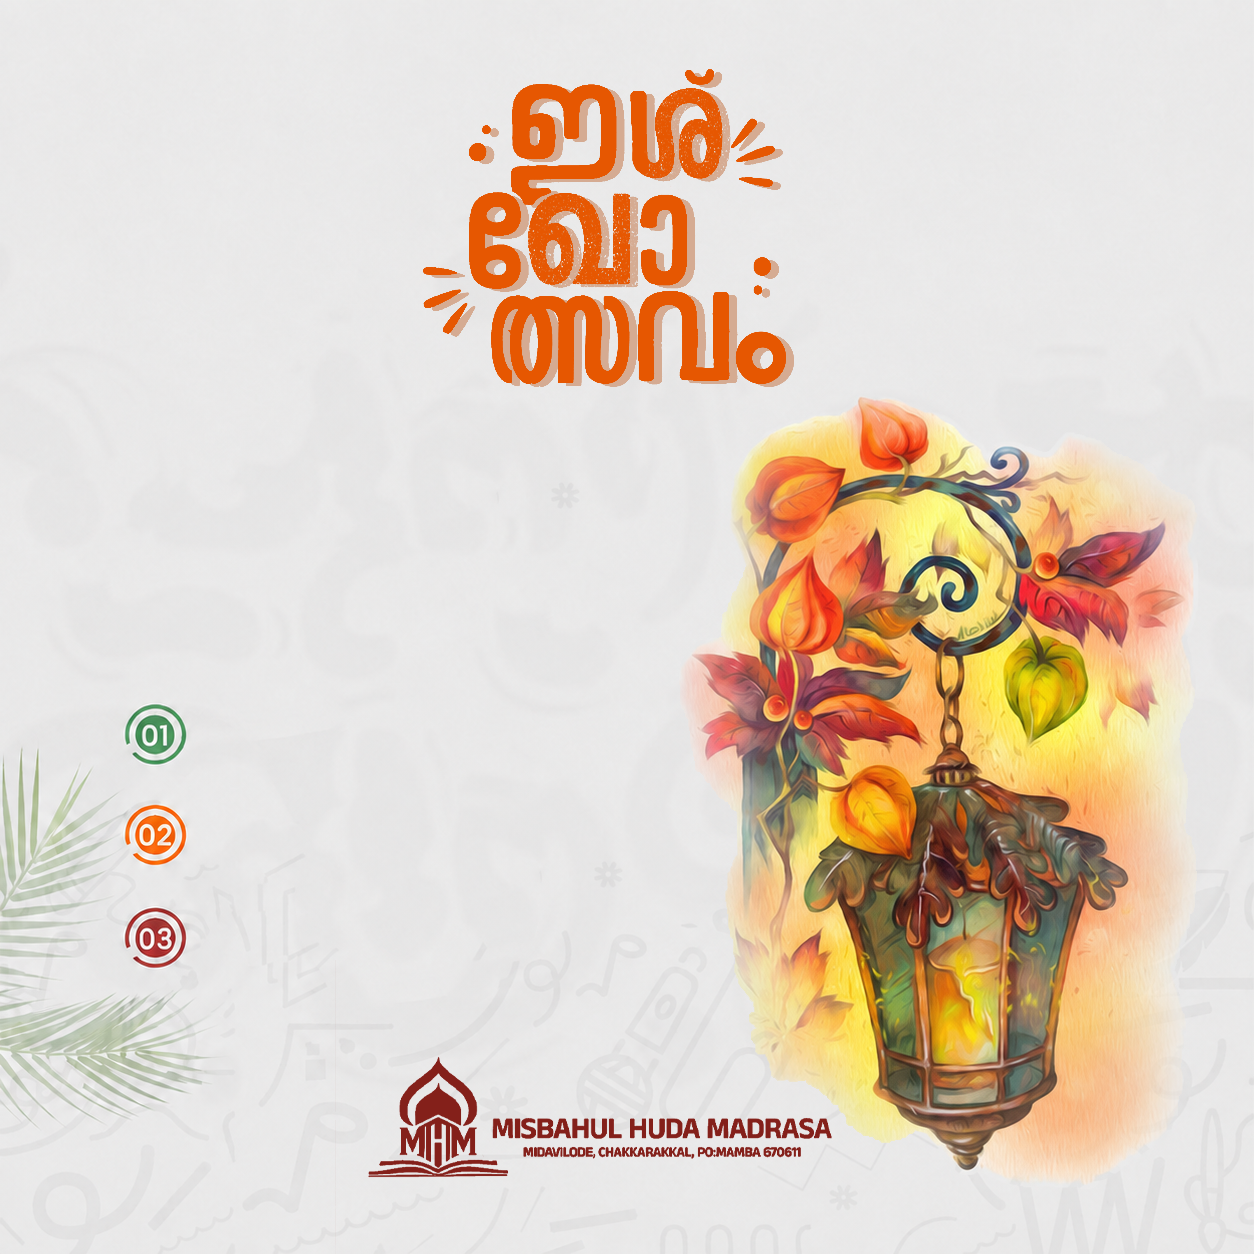
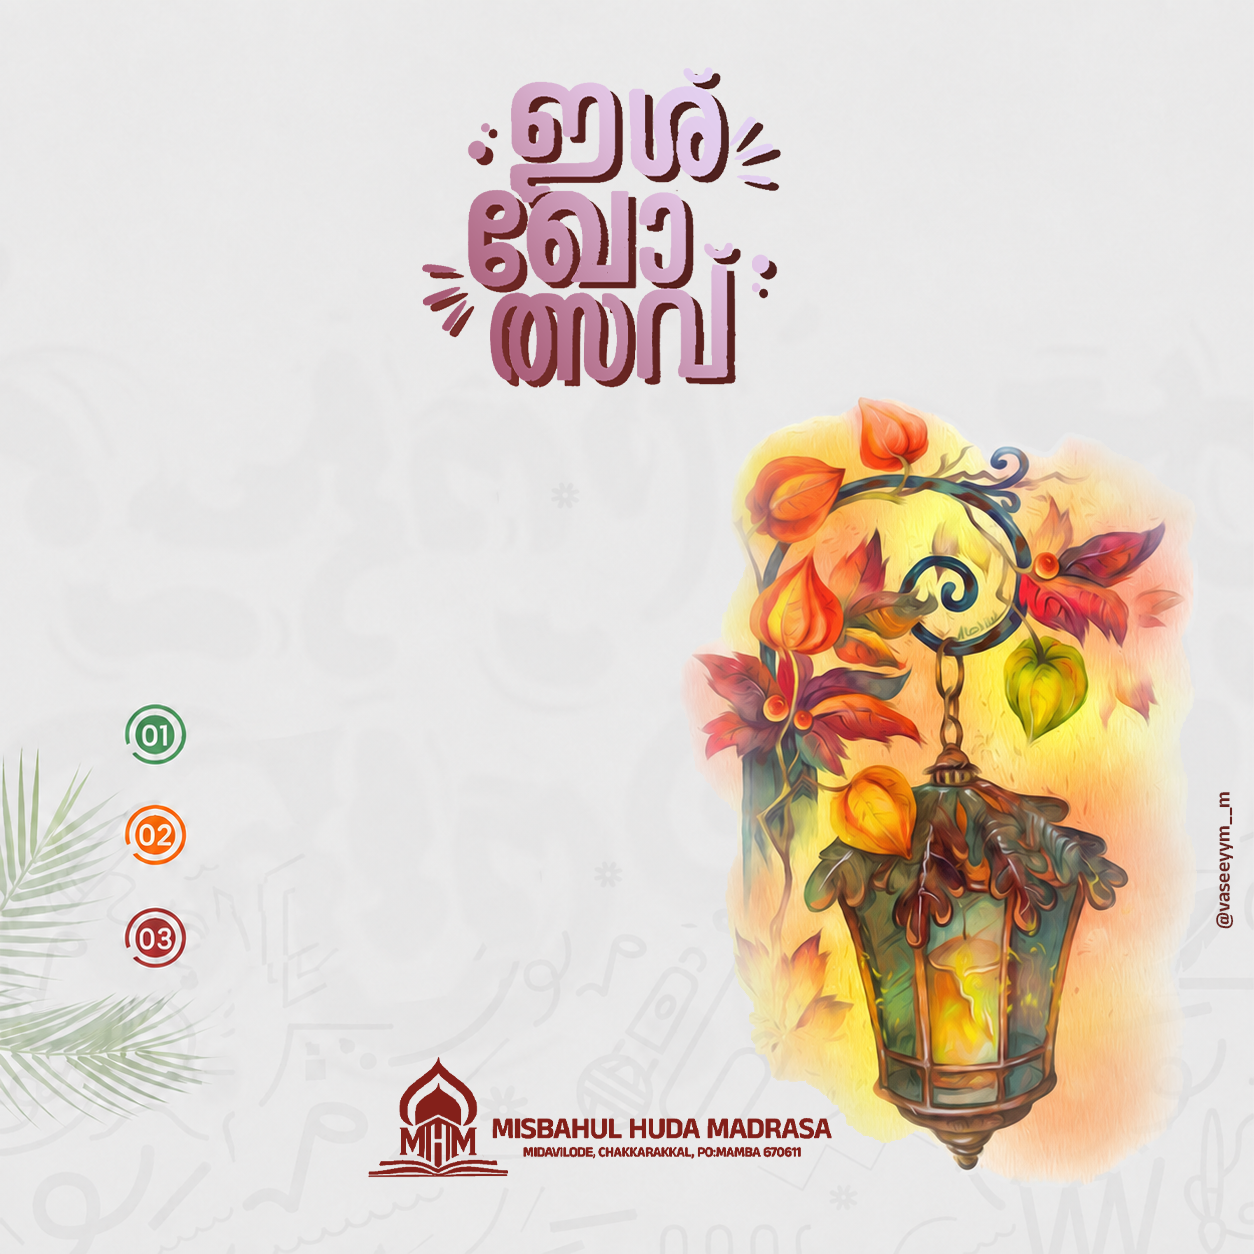
Second Model Completed

Changed region(s): [[0.3421, 0.0622, 0.6531, 0.311], [0.9641, 0.6531, 0.9952, 0.7464]]

diff --git a/js/editor-model-2.js b/js/editor-model-2.js
@@ -76,104 +76,106 @@ const POSITIONS = {
 
   program: {
 
-    x: 155,
+    x: canvas.width / 2,
 
     y: 550,
 
     maxWidth: 560,
 
-    fontSize: 81
+    fontSize: 83,
+    align: "center"
 
   },
 
 
   category: {
 
-    x: 165,
+    x: canvas.width / 2,
 
-    y: 600,
+    y: 605,
 
     maxWidth: 560,
 
-    fontSize: 29
+    fontSize: 32,
+    align: "center"
 
   },
 
 
   first: {
 
-    x: 205,
+    x: 420,
 
-    y: 730,
+    y: 790,
 
     maxWidth: 560,
 
-    fontSize: 38
+    fontSize: 54
 
   },
 
 
   firstGroup: {
 
-    x: 205,
+    x: 420,
 
-    y: 760,
+    y: 831,
 
     maxWidth: 560,
 
-    fontSize: 20
+    fontSize: 33
 
   },
 
 
   second: {
 
-    x: 205,
+    x: 420,
 
-    y: 830,
+    y: 925,
 
     maxWidth: 560,
 
-    fontSize: 38
+    fontSize: 54
 
   },
 
 
   secondGroup: {
 
-    x: 205,
+    x: 420,
 
-    y: 860,
+    y: 966,
 
     maxWidth: 560,
 
-    fontSize: 20
+    fontSize: 33
 
   },
 
 
   third: {
 
-    x: 205,
+    x: 420,
 
-    y: 935,
+    y: 1060,
 
     maxWidth: 560,
 
-    fontSize: 38
+    fontSize: 54
 
   },
 
 
   thirdGroup: {
 
-    x: 205,
+    x: 420,
 
-    y: 965,
+    y: 1101,
 
     maxWidth: 560,
 
-    fontSize: 20
+    fontSize: 33
 
   }
 
@@ -231,7 +233,7 @@ function drawText(
 
 
   ctx.textAlign =
-    "left";
+    position.align || "left";
 
 
   ctx.fillStyle =
@@ -370,7 +372,7 @@ function drawPoster() {
 
     POSITIONS.program,
 
-    "#263238"
+    "#ffffff"
 
   );
 
@@ -392,7 +394,7 @@ function drawPoster() {
 
     POSITIONS.category,
 
-    "#5f686d"
+    "#ebe9e9"
 
   );
 
@@ -408,7 +410,7 @@ function drawPoster() {
 
     POSITIONS.first,
 
-    "#263238"
+    "#518771"
 
   );
 
@@ -446,7 +448,7 @@ function drawPoster() {
 
     POSITIONS.second,
 
-    "#263238"
+    "#518771"
 
   );
 
@@ -480,7 +482,7 @@ function drawPoster() {
 
     POSITIONS.third,
 
-    "#263238"
+    "#518771"
 
   );
 

diff --git a/js/editor.js b/js/editor.js
@@ -736,13 +736,10 @@ document
 
       
 
-      const message =
-        encodeURIComponent(
-          "Here is the result poster."
-        );
+      
 
       window.open(
-        `https://wa.me/?text=${message}`,
+        "https://wa.me/",
         "_blank"
       );
 
